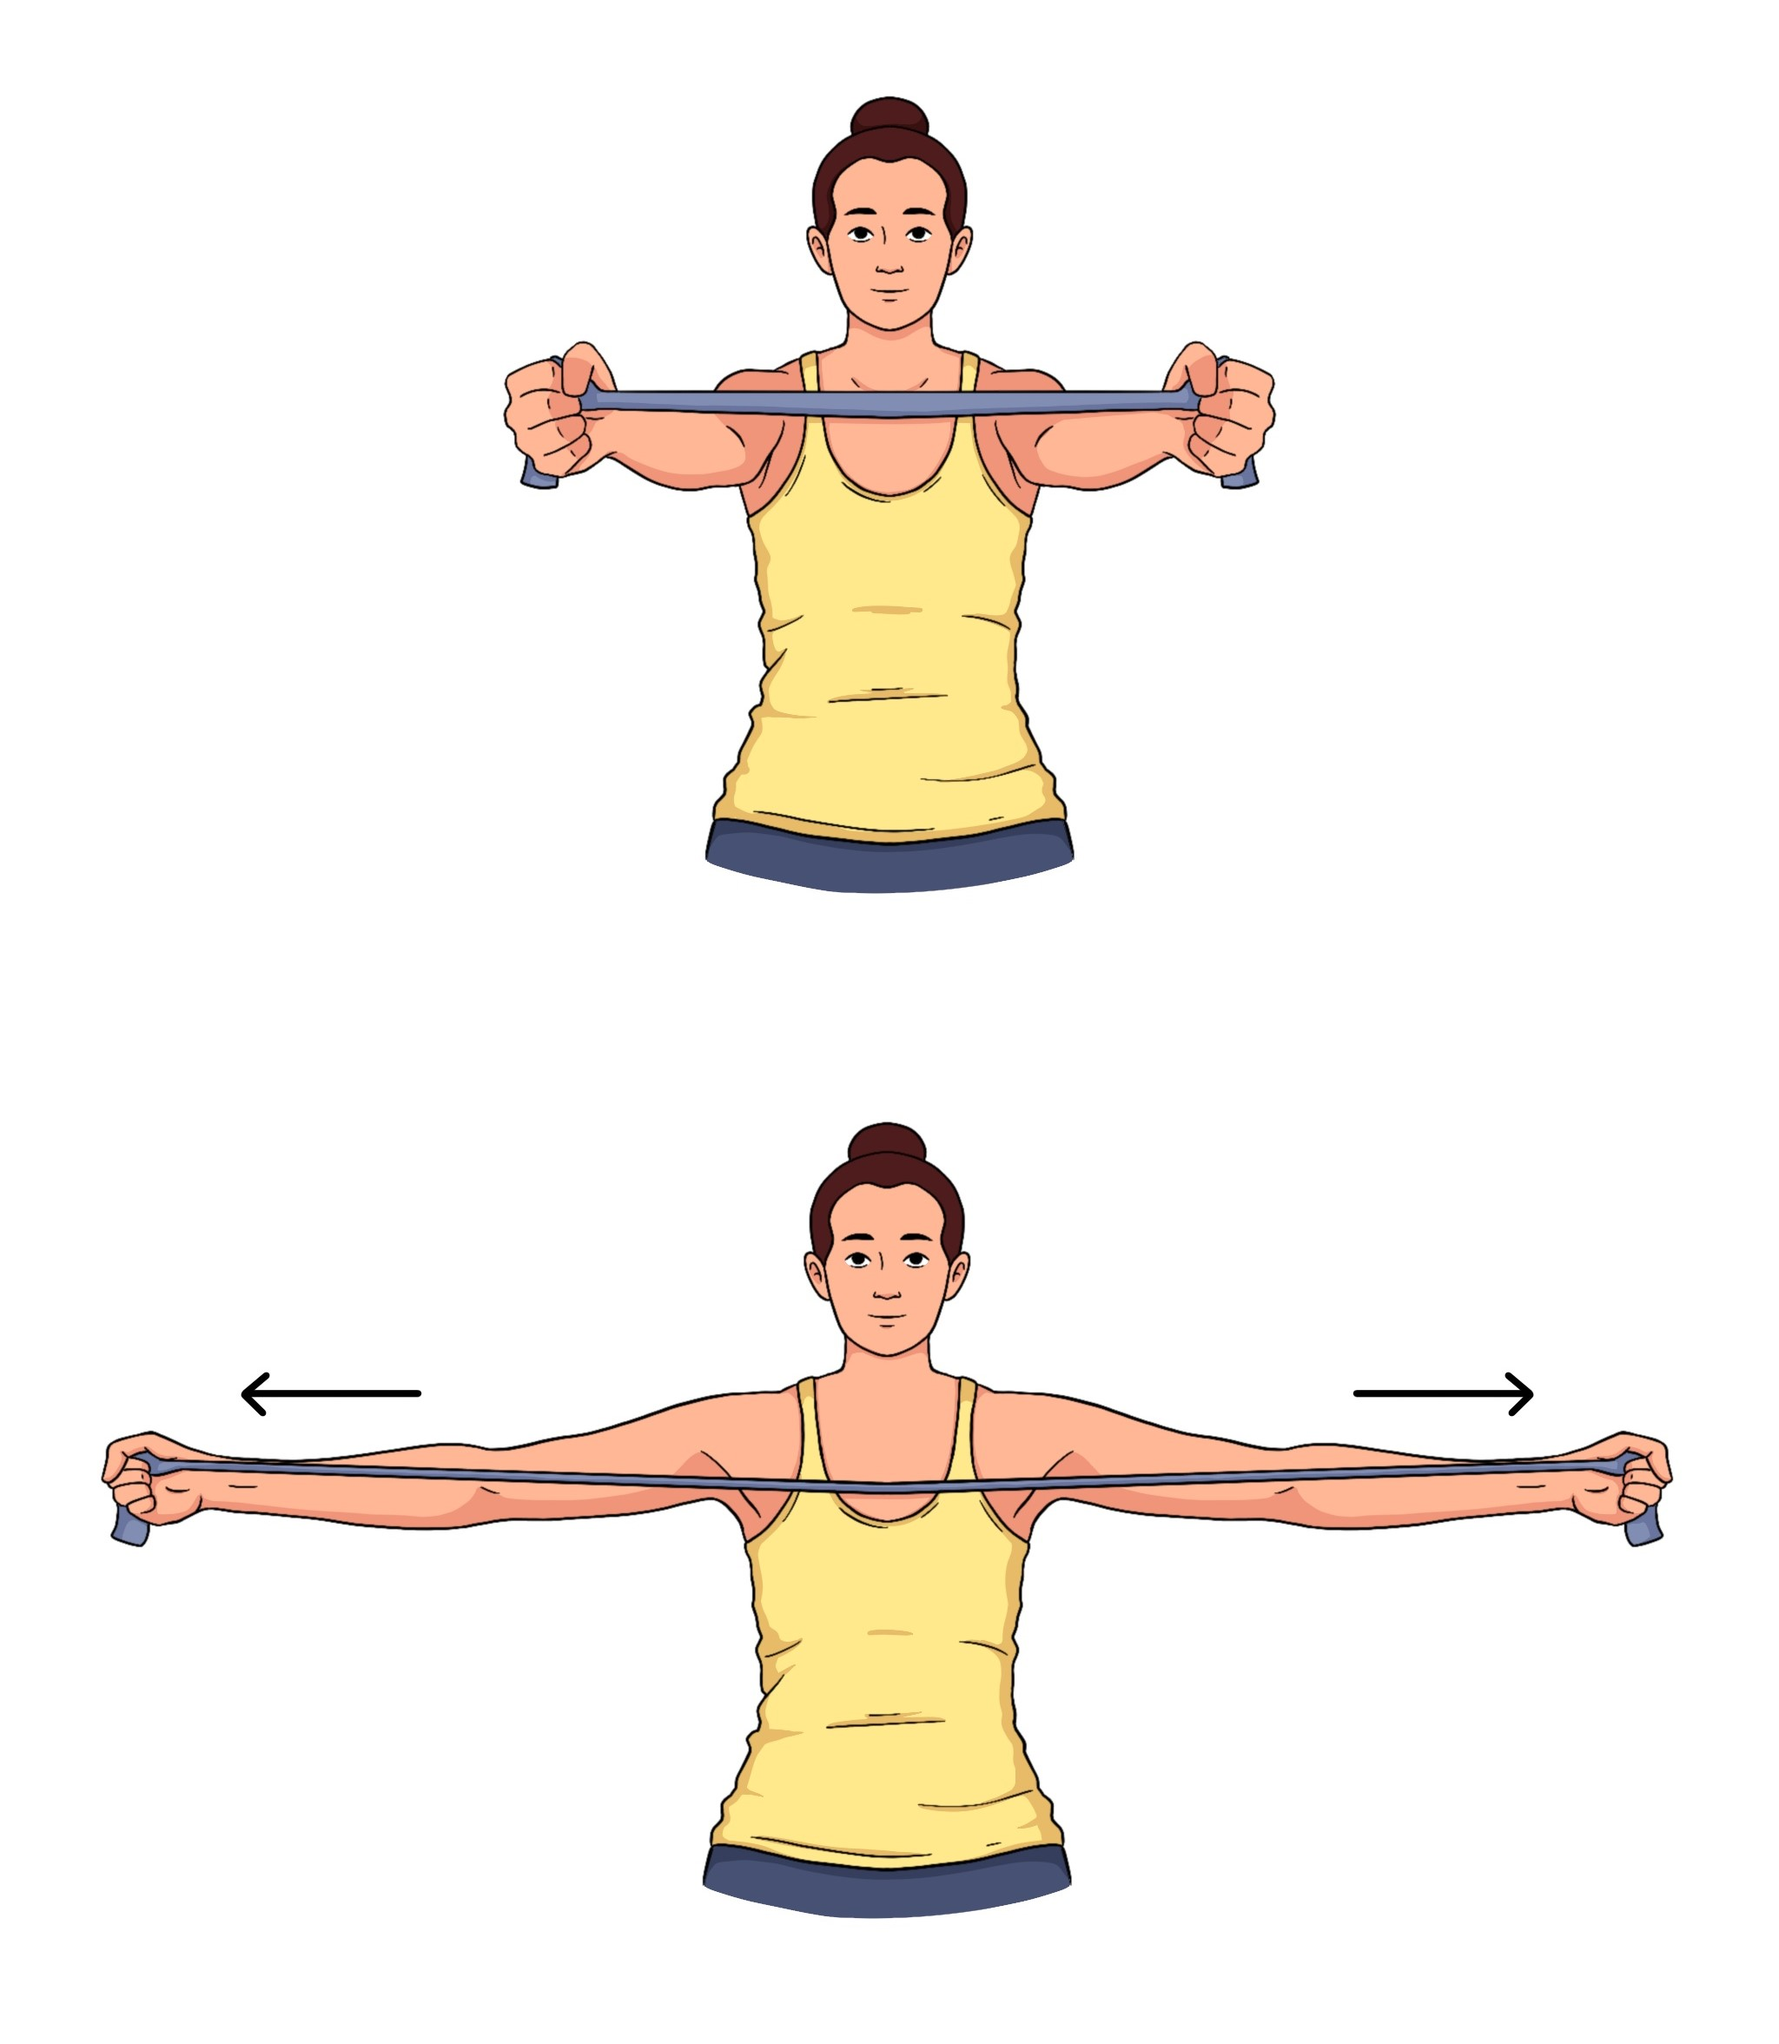
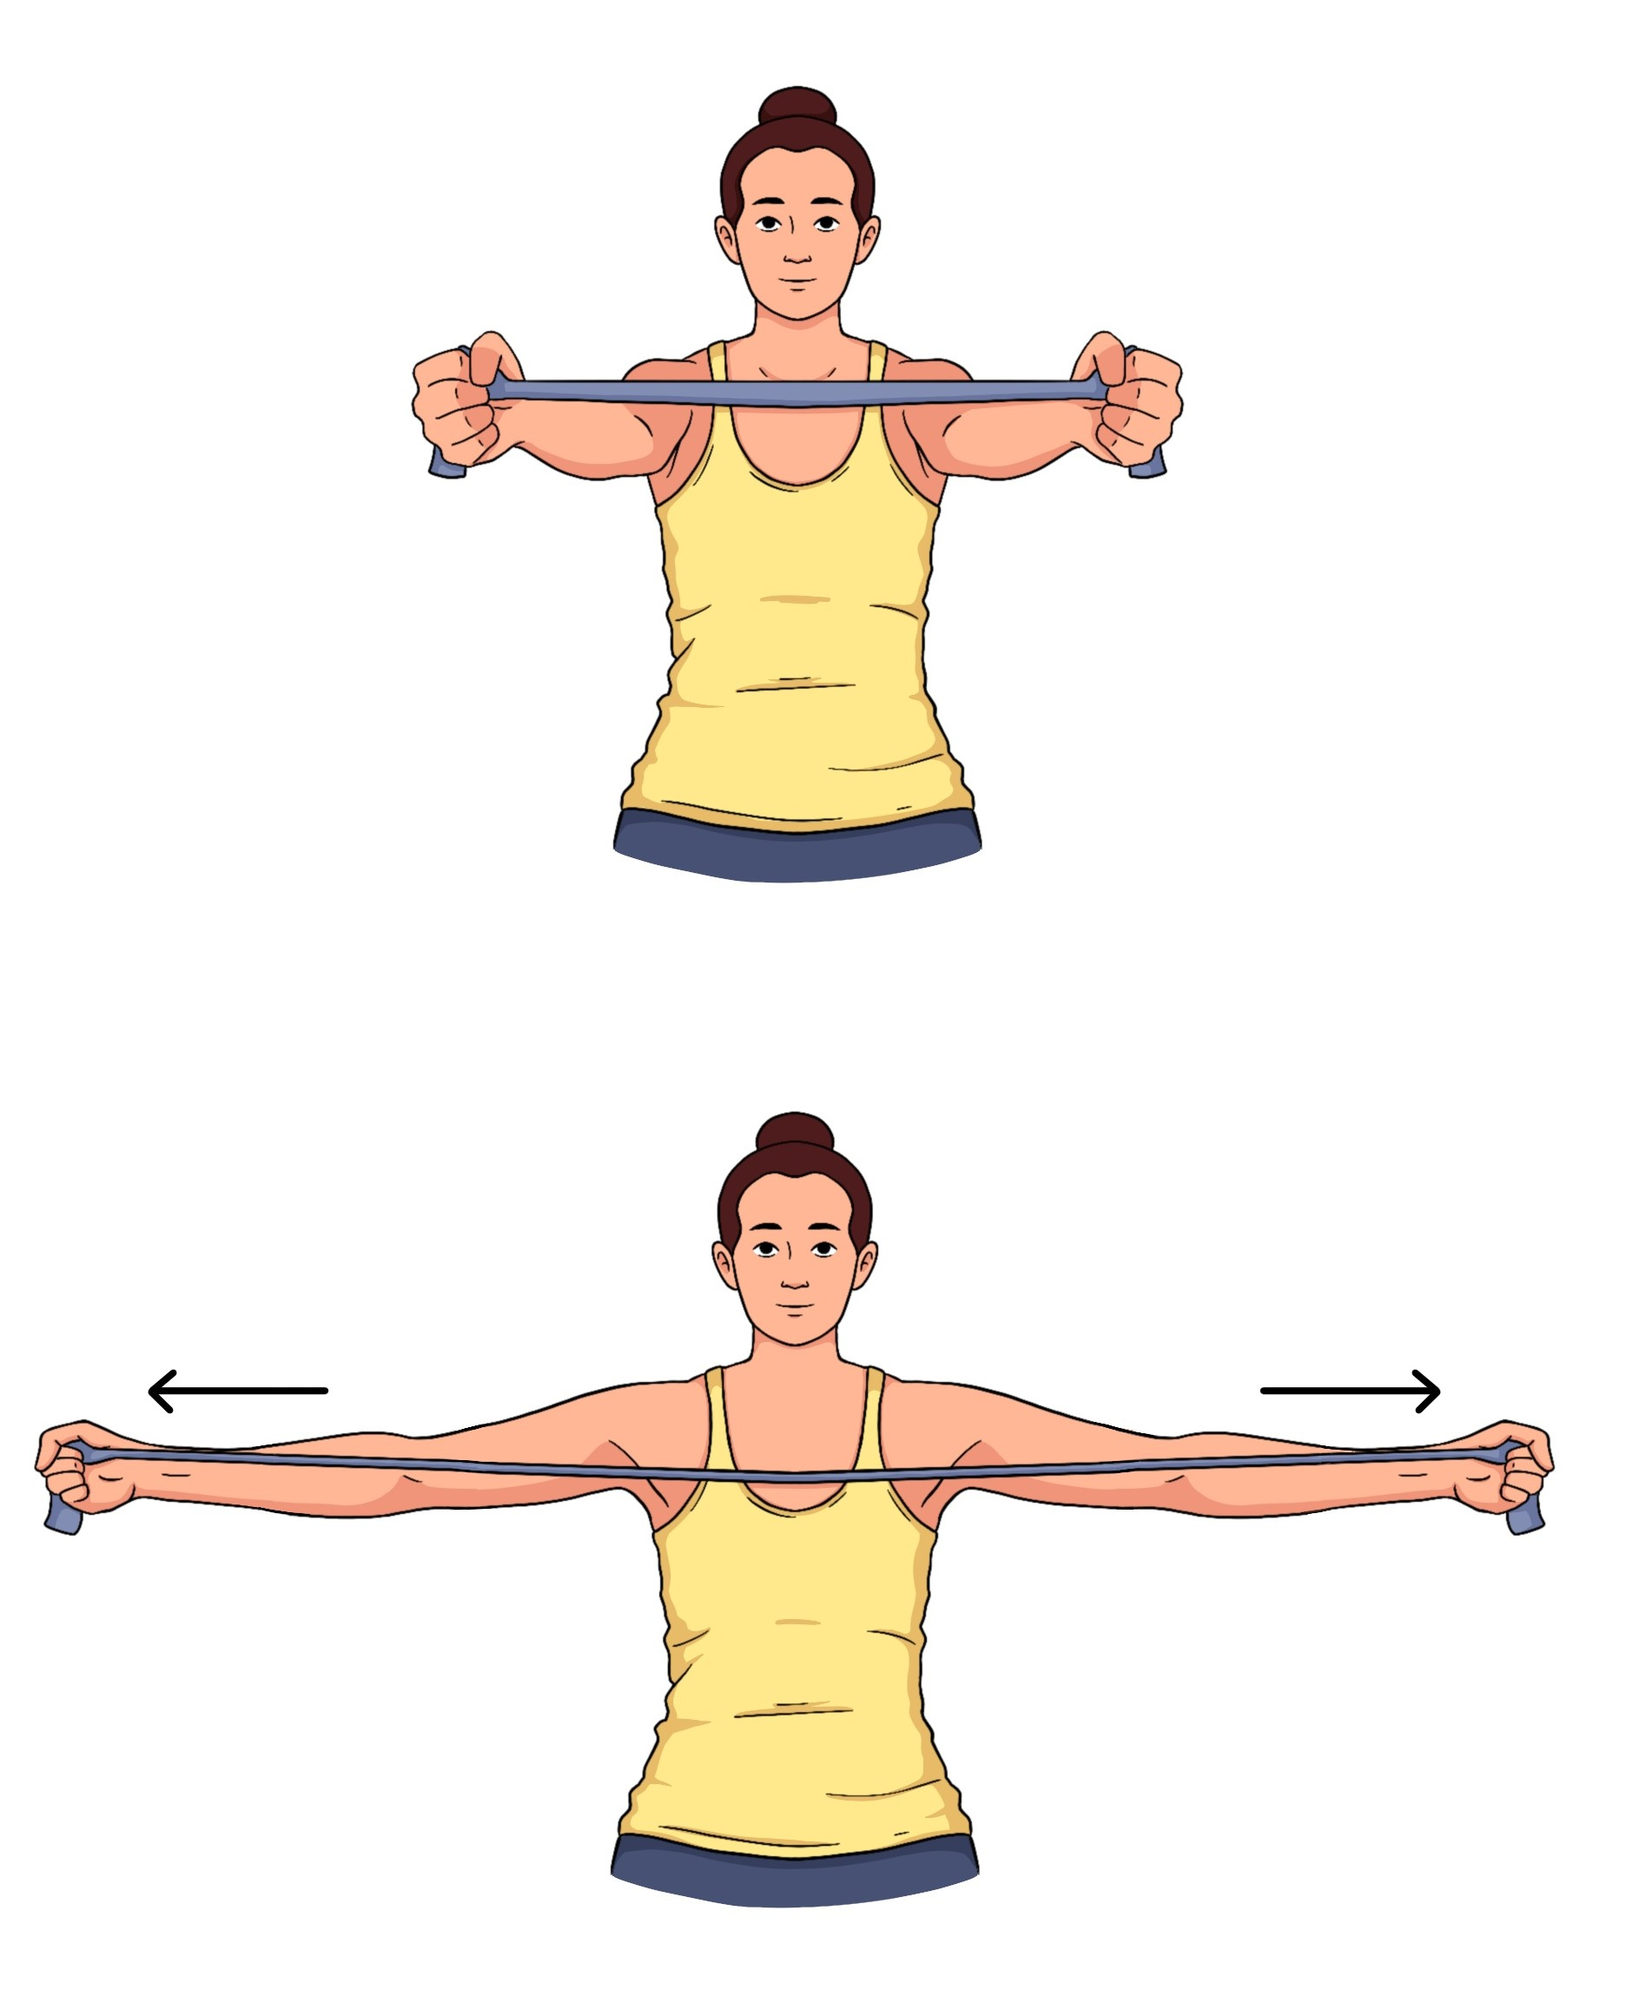
added new image to ex_14 ombro

Changed region(s): [[0.0, 0.5308, 0.9605, 0.9679], [0.2479, 0.0312, 0.7436, 0.4683], [0.4647, 0.3122, 0.5267, 0.3435]]

diff --git a/ombro/ombro_all.html b/ombro/ombro_all.html
@@ -1481,8 +1481,8 @@
                   asperiores ea quis aliquid explicabo id in debitis.">
                     <b>Instruções:</b> <br>
                     Este exercício pode ser realizado sentado ou deitado. Use um cabo de vassoura ou de PVC ou um objeto semelhante.<br>
-                    1) Deite-se de costas, segurando o cabo com as duas mãos, devendo as palmas das mãos devem estar voltadas para baixo; <br>
-                    2) Levante lentamente os braços até acima da cabeça, mantendo os cotovelos esticados;<br>
+                    1) Deite-se de costas, segurando o cabo com as duas mãos, devendo as palmas das mãos estar voltadas para baixo; <br>
+                    2) Levante lentamente os braços até acima da cabeça, mantendo os cotovelos esticados, como demonstra a figura;<br>
                     3) Mantenha a posição por 10 a 20 segundos;<br>
                     4) Retorne lentamente à posição inicial.
                                                             
@@ -1843,8 +1843,8 @@
             </h2>
             <div id="individual_card_body" class="flex px-4 py-2">
               <img
-                class="h-40 w-2/5 object-contain"
-                src="../images/ex_14_v2.png"
+                class="h-60 w-2/5 object-contain"
+                src="../images/ex_14.jpg"
                 alt=""
                 data-img="../images/internal_rotation.jpg"
               />
